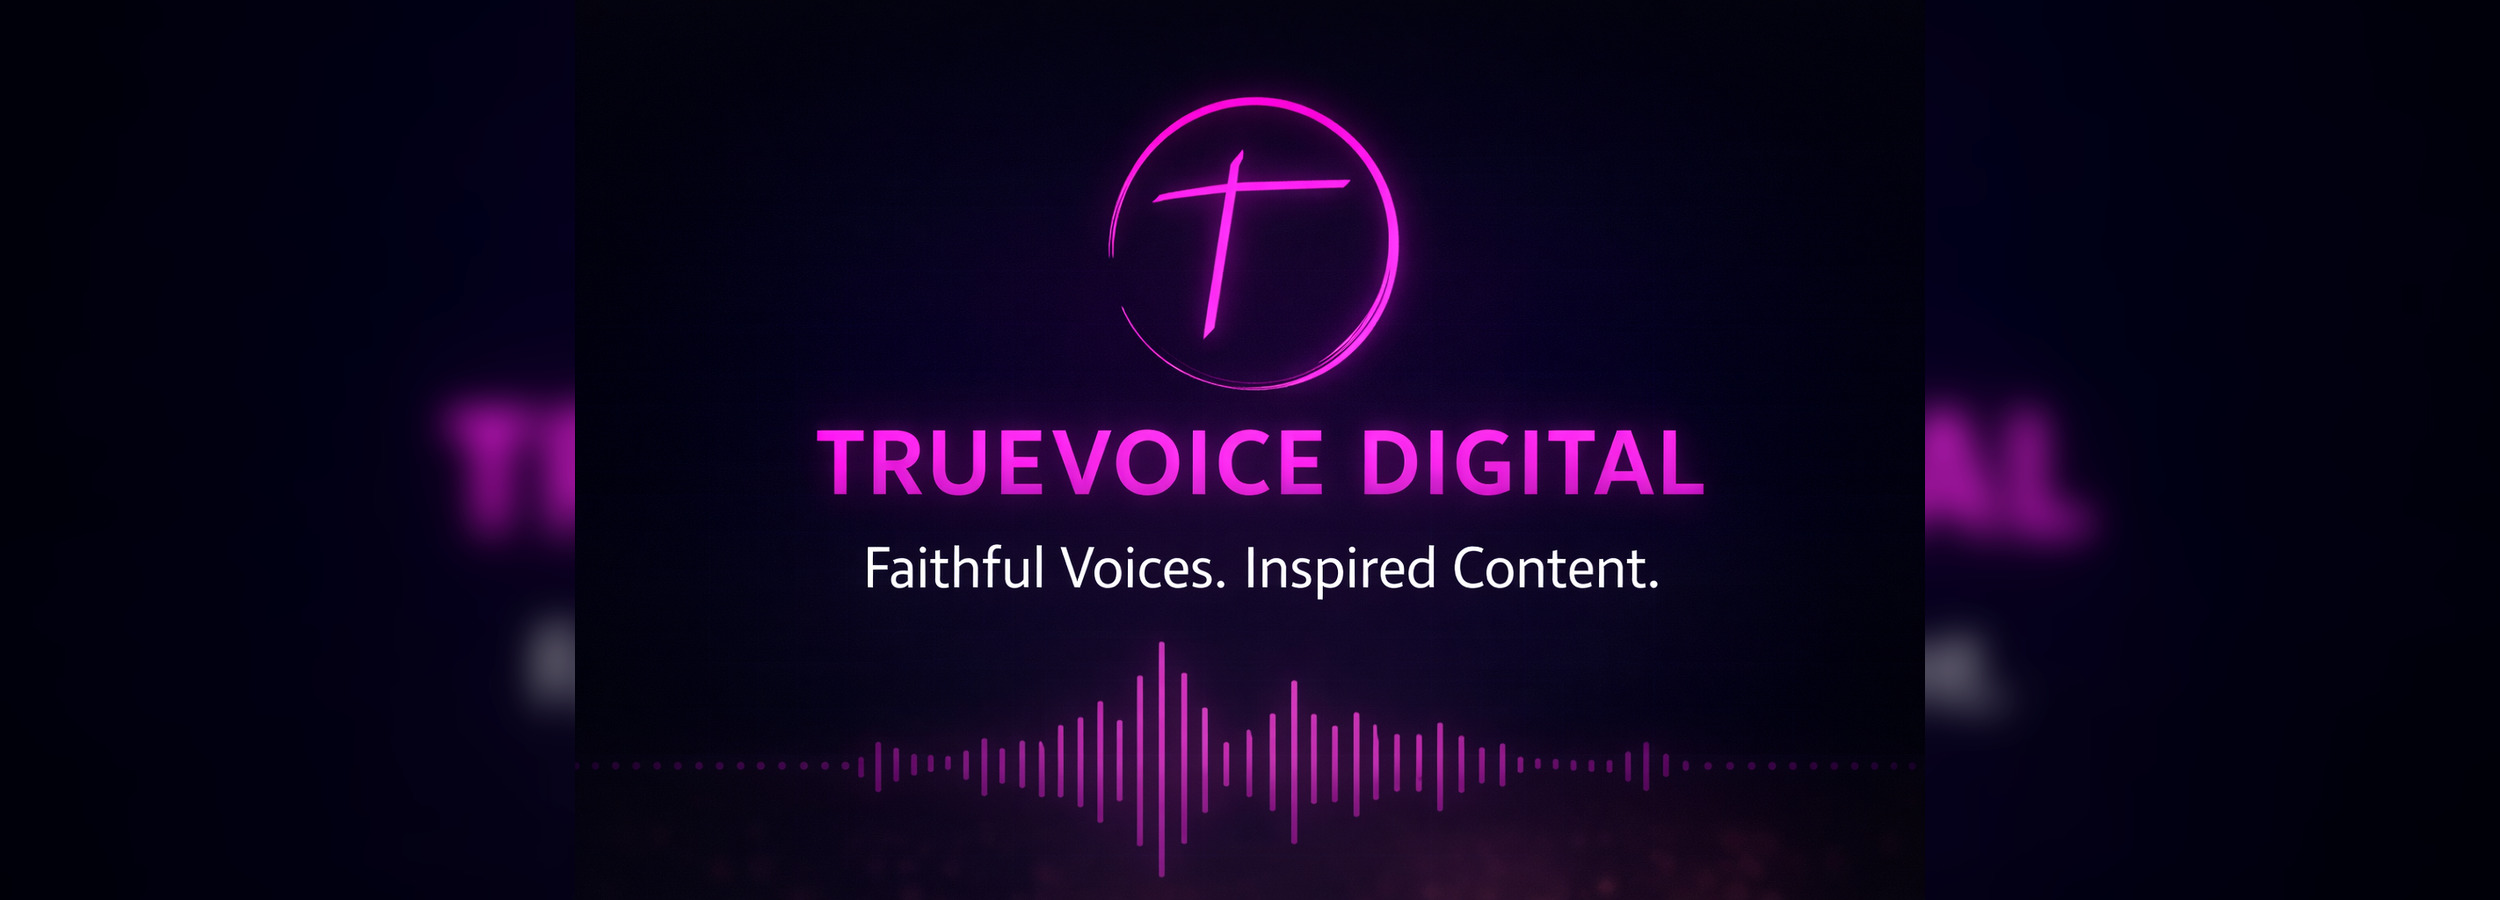
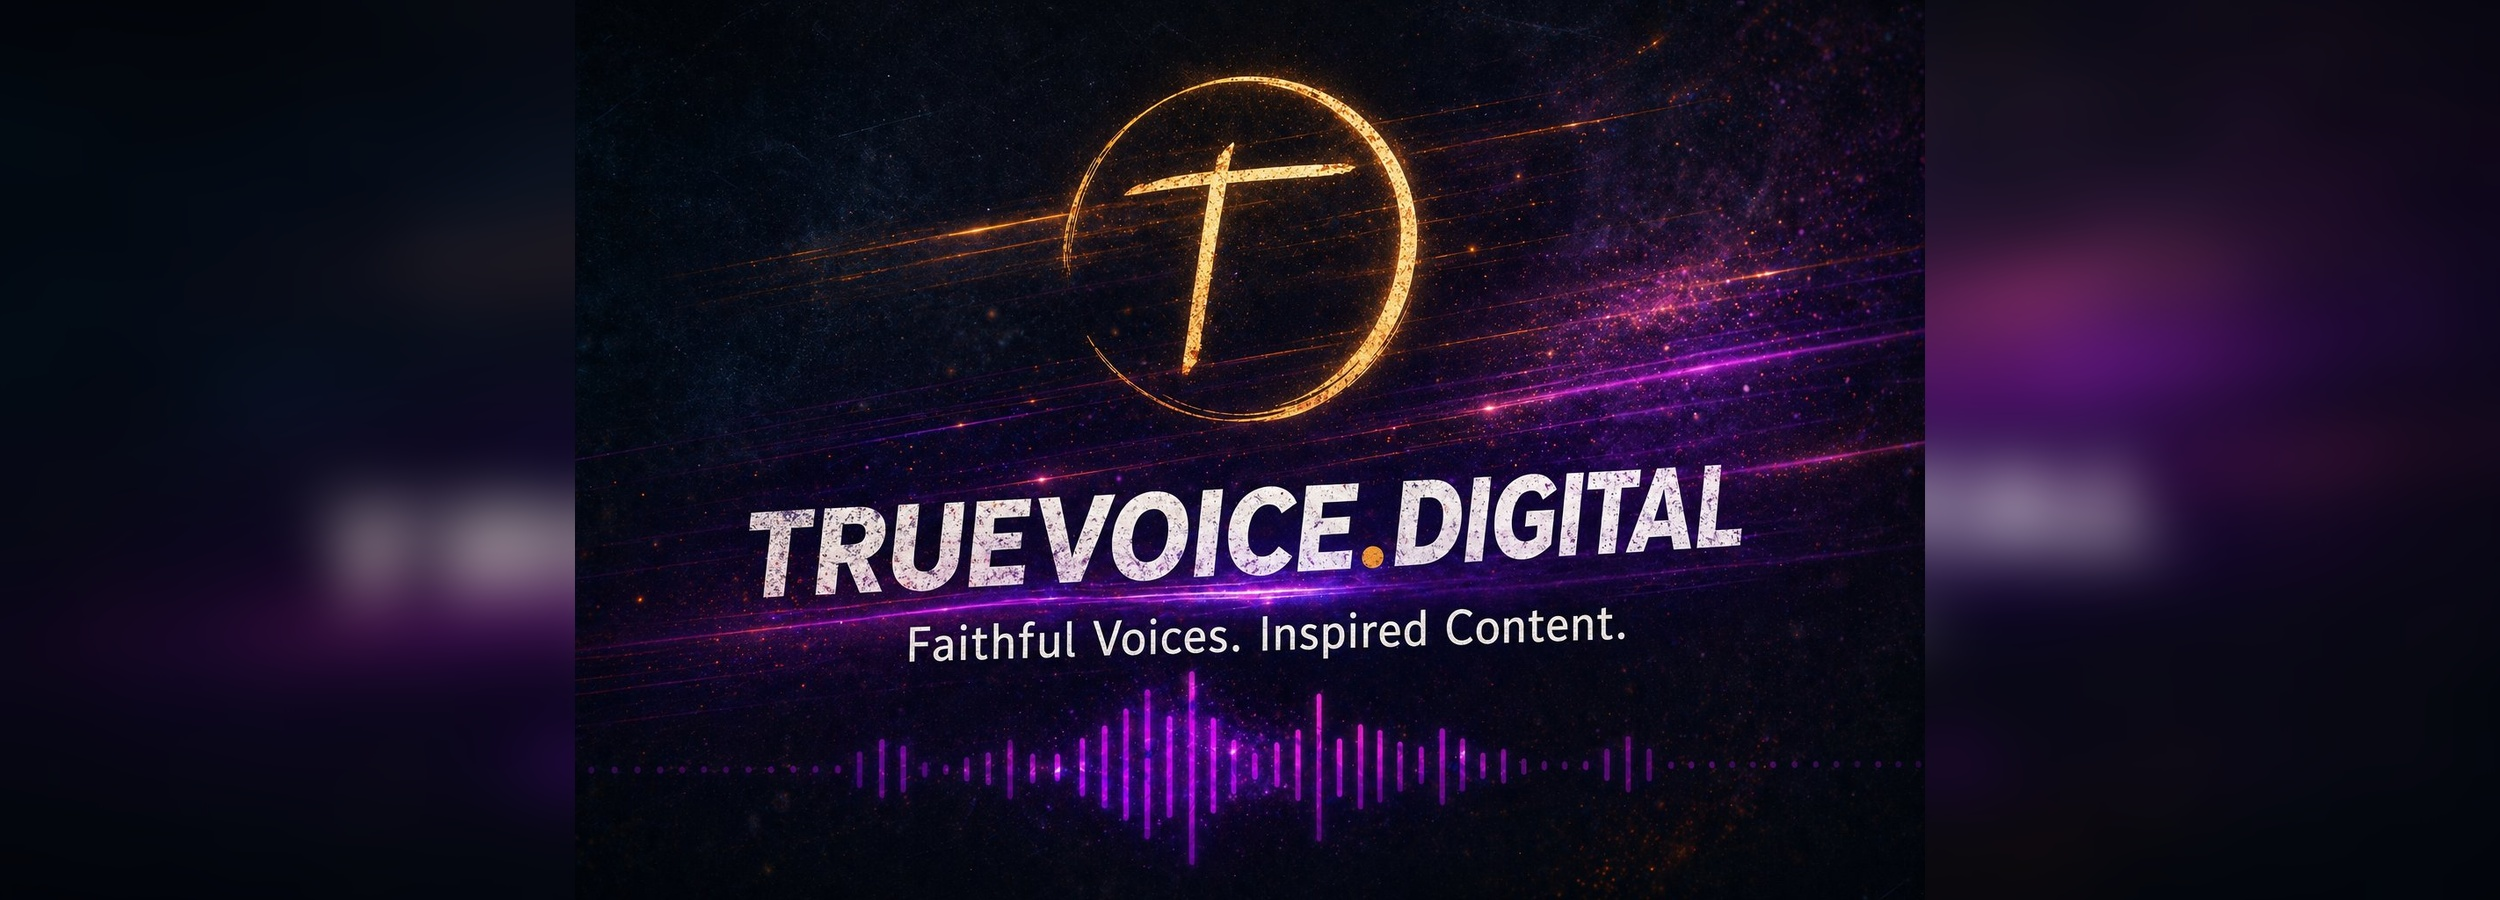
feat: new hero slide 1, remove Coming Soon badges from Ryan/Scott, add PWA pull-to-refresh

Changed region(s): [[0.0624, 0.0622, 0.9984, 1.0], [0.7176, 0.0311, 0.7488, 0.0933], [0.6552, 0.0311, 0.6864, 0.0622]]

diff --git a/src/components/PullToRefresh.jsx b/src/components/PullToRefresh.jsx
@@ -1,0 +1,84 @@
+import { useEffect, useRef } from "react";
+
+const THRESHOLD = 80; // px of pull needed to trigger
+
+export default function PullToRefresh() {
+  const startY = useRef(null);
+  const pulling = useRef(false);
+  const indicator = useRef(null);
+
+  useEffect(() => {
+    const onTouchStart = (e) => {
+      // Only activate when already at top of page
+      if (window.scrollY === 0) {
+        startY.current = e.touches[0].clientY;
+        pulling.current = true;
+      }
+    };
+
+    const onTouchMove = (e) => {
+      if (!pulling.current || startY.current === null) return;
+      const deltaY = e.touches[0].clientY - startY.current;
+      if (deltaY <= 0) {
+        pulling.current = false;
+        return;
+      }
+      // Show indicator proportionally
+      if (indicator.current) {
+        const progress = Math.min(deltaY / THRESHOLD, 1);
+        indicator.current.style.opacity = progress;
+        indicator.current.style.transform = `translateY(${Math.min(deltaY * 0.4, 40)}px)`;
+      }
+    };
+
+    const onTouchEnd = (e) => {
+      if (!pulling.current || startY.current === null) return;
+      const deltaY = e.changedTouches[0].clientY - startY.current;
+      pulling.current = false;
+      startY.current = null;
+      if (indicator.current) {
+        indicator.current.style.opacity = 0;
+        indicator.current.style.transform = "translateY(0)";
+      }
+      if (deltaY >= THRESHOLD) {
+        window.location.reload();
+      }
+    };
+
+    document.addEventListener("touchstart", onTouchStart, { passive: true });
+    document.addEventListener("touchmove", onTouchMove, { passive: true });
+    document.addEventListener("touchend", onTouchEnd, { passive: true });
+
+    return () => {
+      document.removeEventListener("touchstart", onTouchStart);
+      document.removeEventListener("touchmove", onTouchMove);
+      document.removeEventListener("touchend", onTouchEnd);
+    };
+  }, []);
+
+  return (
+    <div
+      ref={indicator}
+      style={{
+        position: "fixed",
+        top: 8,
+        left: "50%",
+        transform: "translateX(-50%)",
+        opacity: 0,
+        transition: "opacity 0.15s, transform 0.15s",
+        zIndex: 9999,
+        background: "rgba(39,95,219,0.85)",
+        color: "#fff",
+        borderRadius: 100,
+        padding: "6px 18px",
+        fontSize: 13,
+        fontWeight: 700,
+        pointerEvents: "none",
+        backdropFilter: "blur(6px)",
+        letterSpacing: "0.05em",
+      }}
+    >
+      ↓ Release to refresh
+    </div>
+  );
+}

diff --git a/src/App.jsx b/src/App.jsx
@@ -15,6 +15,7 @@ import RecentTracksBar from "./components/RecentTracksBar.jsx";
 import VideoModal from "./components/VideoModal.jsx";
 import MerchSection from "./components/MerchSection.jsx";
 import HeroMerchSlide from "./components/HeroMerchSlide.jsx";
+import PullToRefresh from "./components/PullToRefresh";
 
 import { useYouTubeFeed } from "./hooks/useYouTubeFeed";
 
@@ -379,6 +380,7 @@ const capturingFeed         = useYouTubeFeed({ channelId:  CAPTURING_CHRISTIANIT
       <Route path="/admin" element={<AdminDashboard />} />
       <Route path="*" element={
         <div className="app-container tv-app">
+          <PullToRefresh />
 
           {/* ── HEADER ── */}
           <header className="tv-header">

diff --git a/src/components/HeroRyanSlide.jsx b/src/components/HeroRyanSlide.jsx
@@ -3,7 +3,6 @@ export default function HeroRyanSlide() {
   return (
     <div className="hero-std-slide">
       <img src="/images/hero-ryan.png" alt="Ryan Kliesch on TrueVoice Digital" className="hero-std-img" loading="lazy" decoding="async" draggable="false" />
-      <div className="hero-std-badge hero-std-badge--gold"><span className="hero-std-dot" />COMING SOON</div>
     </div>
   );
 }

diff --git a/src/components/HeroScottSlide.jsx b/src/components/HeroScottSlide.jsx
@@ -10,9 +10,6 @@ export default function HeroScottSlide() {
         decoding="async"
         draggable="false"
       />
-      <div className="hero-std-badge hero-std-badge--purple">
-        <span className="hero-std-dot" />COMING SOON
-      </div>
     </div>
   );
 }
